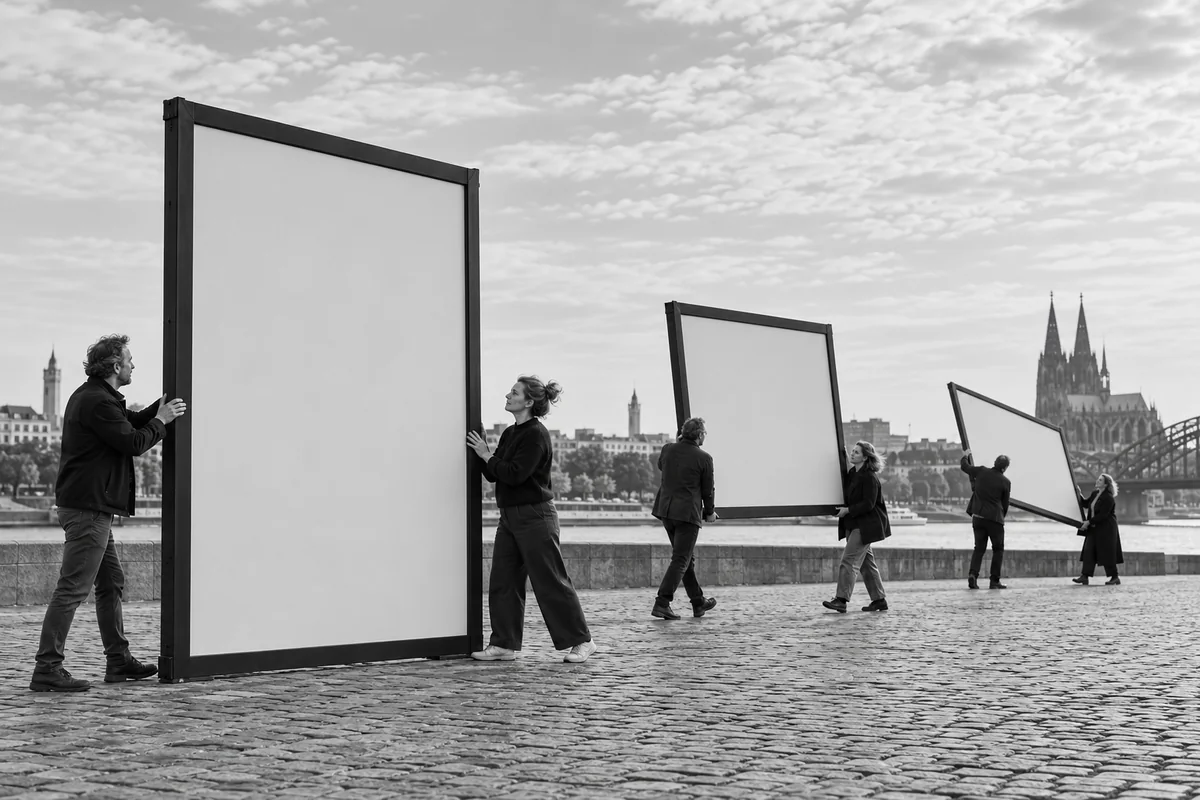
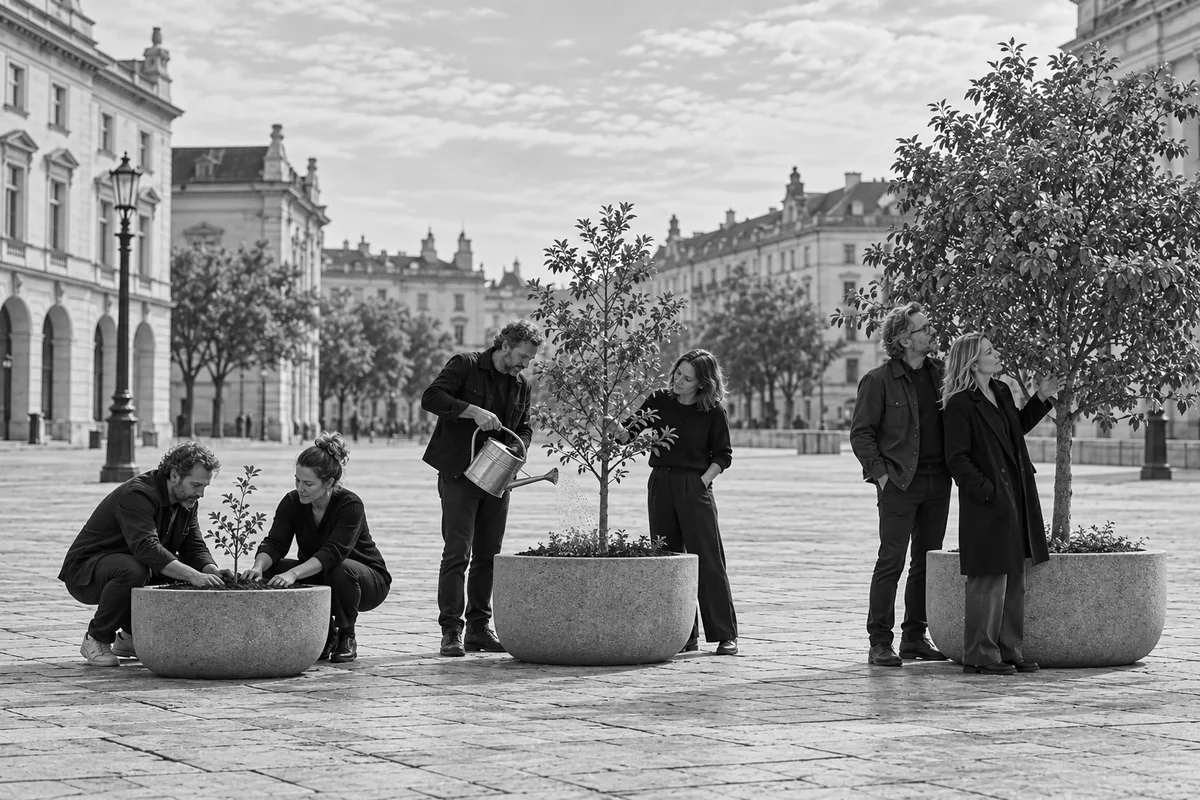
Add three tailored blog previews to homepage campaign and AI pages and replace three frame motifs

diff --git a/index.html b/index.html
@@ -93,13 +93,12 @@
 <div class="section-head"><div><div class="eyebrow">Über Heidewitzka</div><h2>Heidewitzka?</h2></div></div>
 <p class="about-story">Heidewitzka – ein Wort, das schon in unserer Kindheit Emotionen geweckt hat. Es steht für den kurzen Moment des Staunens, wenn etwas anders, überraschender oder besser läuft als erwartet. Genau dieses Gefühl wollen wir in unserer Arbeit weitertragen: mit Performance Marketing, Datenanalyse und sinnvoll eingesetzter KI, die nicht nur messbare Ergebnisse liefert, sondern neue Möglichkeiten eröffnet und im richtigen Moment den entscheidenden Unterschied macht.</p></div></section>
 
-<section class="section"><div class="wrap">
-<div class="section-head"><div><div class="eyebrow">05 · Blog / Insights</div><h2>Was sich im Marketing gerade wirklich verändert.</h2></div><p>Paid Media, AI Operations, Agentic Marketing und neue Werbekanäle.</p></div>
-<div class="grid-4 unified-teaser-grid">
-<article class="ai-teaser"><span class="teaser-media media"><img src="/assets/teaser-portrait.webp" alt="Porträt aus dem Marketingalltag"></span><span class="teaser-body"><h3>Agentic Marketing: Was übernimmt ein Agent wirklich?</h3><p>Vom Monitoring bis zur Vorbereitung konkreter Änderungen.</p><span class="teaser-link">Mehr erfahren <span>↗</span></span></span></article>
-<article class="ai-teaser"><span class="teaser-media media"><img src="/assets/orange-macro.webp" alt="Abstrakte orangefarbene Struktur"></span><span class="teaser-body"><h3>Warum Google Ads nicht am Klick aufhört</h3><p>Die Verbindung von Kampagne, Landingpage, Daten und Follow-up.</p><span class="teaser-link">Mehr erfahren <span>↗</span></span></span></article>
-<article class="ai-teaser"><span class="teaser-media media"><img src="/assets/vase-stilllife.webp" alt="Stillleben als Symbol für neue Werbekanäle"></span><span class="teaser-body"><h3>ChatGPT Ads: Was Unternehmen jetzt vorbereiten können</h3><p>Ein neuer Kanal – und warum Search-Logik relevant bleibt.</p><span class="teaser-link">Mehr erfahren <span>↗</span></span></span></article>
-<article class="ai-teaser"><span class="teaser-media media"><img src="/assets/teaser-vase.webp" alt="Kreatives Objekt im Studio"></span><span class="teaser-body"><h3>Warum gute Daten wichtiger werden</h3><p>Was sauberes Tracking für Automatisierung, KI und Entscheidungen leistet.</p><span class="teaser-link">Mehr erfahren <span>↗</span></span></span></article>
+<section class="section blog-preview" aria-labelledby="blog-preview-heading"><div class="wrap">
+<div class="section-head"><div><div class="eyebrow">Blog / Insights</div><h2 id="blog-preview-heading">Ideen für Ihr Marketing.</h2></div><a class="insight-more" href="/insights">Alle Artikel <span aria-hidden="true">↗</span></a></div>
+<div class="insights-grid blog-preview-grid">
+<article class="insight-card"><a class="insight-media" href="/linkedin-meta" aria-label="Artikel lesen: LinkedIn + Meta: Fachlich überzeugen, außerhalb des Berufsalltags erinnern"><img src="/assets/blog-linkedin-meta.webp" alt="" width="1200" height="800" loading="lazy"></a><h3>LinkedIn + Meta: Fachlich überzeugen, außerhalb des Berufsalltags erinnern</h3><p>Ein Kampagnenkonzept mit zwei klaren Aufgaben – und einer Rechnung, wann der zweite Kanal seinen Aufwand rechtfertigt.</p><a href="/linkedin-meta" class="insight-more">Mehr erfahren <span>↗</span></a></article>
+<article class="insight-card"><a class="insight-media" href="/plattform-attribution" aria-label="Artikel lesen: Ein Abschluss, drei Plattformen: Wie oft verkaufen wir denselben Kunden?"><img src="/assets/blog-plattform-attribution.webp" alt="" width="1200" height="800" loading="lazy"></a><h3>Ein Abschluss, drei Plattformen: Wie oft verkaufen wir denselben Kunden?</h3><p>Warum Meta, LinkedIn und Google denselben Erfolg beanspruchen können – und welche Zahlen im gemeinsamen Bericht addiert werden dürfen.</p><a href="/plattform-attribution" class="insight-more">Mehr erfahren <span>↗</span></a></article>
+<article class="insight-card"><a class="insight-media" href="/lokale-werbung" aria-label="Artikel lesen: Wie weit lohnt sich lokale Werbung? Die letzte Postleitzahl entscheidet"><img src="/assets/blog-lokale-werbung.webp" alt="" width="1200" height="800" loading="lazy"></a><h3>Wie weit lohnt sich lokale Werbung? Die letzte Postleitzahl entscheidet</h3><p>Warum Fahrtzeit und tatsächliche Abschlüsse mehr über ein Werbegebiet sagen als günstige Klicks oder ein größerer Radius.</p><a href="/lokale-werbung" class="insight-more">Mehr erfahren <span>↗</span></a></article>
 </div></div></section>
 </main>
 <footer class="footer"><div class="wrap">

diff --git a/campaign-management.html b/campaign-management.html
@@ -146,6 +146,13 @@
 </div></section>
 
 <div class="product-cta campaign-cta"><div><div class="eyebrow">Kampagnenmanagement</div><h2>Ein Konto, das Aufmerksamkeit braucht?</h2></div><a class="btn" href="/contact.html">Projekt besprechen →</a></div></div></section>
+<section class="section blog-preview" aria-labelledby="blog-preview-heading"><div class="wrap">
+<div class="section-head"><div><div class="eyebrow">Blog / Insights</div><h2 id="blog-preview-heading">Kampagnen weiterdenken.</h2></div><a class="insight-more" href="/insights">Alle Artikel <span aria-hidden="true">↗</span></a></div>
+<div class="insights-grid blog-preview-grid">
+<article class="insight-card"><a class="insight-media" href="/search-video" aria-label="Artikel lesen: Teure Suchbegriffe als Zielgruppensignal: Search trifft YouTube"><img src="/assets/blog-search-video.webp" alt="" width="1200" height="800" loading="lazy"></a><h3>Teure Suchbegriffe als Zielgruppensignal: Search trifft YouTube</h3><p>Wie sich Suchintention für Videowerbung nutzen lässt – und warum günstige Videokontakte noch keine günstigen Kunden sind.</p><a href="/search-video" class="insight-more">Mehr erfahren <span>↗</span></a></article>
+<article class="insight-card"><a class="insight-media" href="/leadqualitaet" aria-label="Artikel lesen: Der 30-Euro-Lead ist teurer als der 90-Euro-Lead"><img src="/assets/blog-leadqualitaet-milchglas.webp" alt="" width="1200" height="800" loading="lazy"></a><h3>Der 30-Euro-Lead ist teurer als der 90-Euro-Lead</h3><p>Warum Abschlussquote und Deckungsbeitrag die Leadbewertung verändern – mit einer Rechnung, die über den CPL hinausgeht.</p><a href="/leadqualitaet" class="insight-more">Mehr erfahren <span>↗</span></a></article>
+<article class="insight-card"><a class="insight-media" href="/meta-google-zeitversetzt" aria-label="Artikel lesen: Meta + Google: Was passiert, wenn man beide Kanäle zeitversetzt einschaltet?"><img src="/assets/blog-meta-google-zeitversetzt.webp" alt="" width="1200" height="800" loading="lazy"></a><h3>Meta + Google: Was passiert, wenn man beide Kanäle zeitversetzt einschaltet?</h3><p>Nachfrage zuerst anstoßen, Suchwerbung danach verstärken: eine überprüfbare Alternative zu dauerhaft parallelen Kampagnen.</p><a href="/meta-google-zeitversetzt" class="insight-more">Mehr erfahren <span>↗</span></a></article>
+</div></div></section>
 </main>
 <footer class="footer"><div class="wrap"><div class="footer-grid"><div><strong>.heidewitzka</strong><p style="color:#aaa;max-width:420px">Performance Marketing + AI Operations im Marketing.</p></div><div><strong>Leistungen</strong><a href="/performance.html">Performance Marketing</a><a href="/campaign-management.html">Kampagnenmanagement</a><a href="/ai.html">KI im Marketing</a><a href="/ai.html#agentic">Agentic Marketing</a></div><div><strong>Kanäle</strong><a href="/channels.html">Search Engines</a><a href="/channels.html">Meta</a><a href="/channels.html">LinkedIn</a><a href="/channels.html">Pinterest</a><a href="/channels.html">YouTube</a></div><div><strong>Mehr</strong><a href="/shop.html">Service-Shop</a><a href="/insights.html">Blog</a><a href="/white-label">White Label</a><a href="/freelancer-team">Freelancer-Team</a><a href="/contact.html">Kontakt</a></div></div></div><div class="wrap footer-login-row"><a class="footer-login" href="/intern">Login <span aria-hidden="true">↗</span></a></div></footer>
 <script>(function(){const nav=document.querySelector('.site-nav'),btn=document.querySelector('.nav-toggle'),menu=document.querySelector('.nav-links');if(!nav||!btn||!menu)return;const close=()=>{nav.classList.remove('menu-open');btn.setAttribute('aria-expanded','false');btn.setAttribute('aria-label','Menü öffnen');document.body.classList.remove('nav-open')};btn.addEventListener('click',()=>{const open=!nav.classList.contains('menu-open');nav.classList.toggle('menu-open',open);btn.setAttribute('aria-expanded',String(open));btn.setAttribute('aria-label',open?'Menü schließen':'Menü öffnen');document.body.classList.toggle('nav-open',open)});menu.querySelectorAll('a').forEach(a=>a.addEventListener('click',close));document.addEventListener('keydown',e=>{if(e.key==='Escape')close()});window.addEventListener('resize',()=>{if(window.innerWidth>900)close()})})();</script>

diff --git a/ai.html b/ai.html
@@ -96,6 +96,13 @@
 <article class="campaign-faq-item"><h3>Müssen wir auch das Kampagnenmanagement bei euch buchen?</h3><div><p>Nein. Wir können einen Workflow für Ihr internes Team oder Ihre Agentur einrichten und dokumentieren. Alternativ übernehmen wir Betreuung und Weiterentwicklung oder integrieren das System in unser Kampagnenmanagement. Zuständigkeiten, Übergaben und Freigaben stimmen wir auf die gewählte Zusammenarbeit ab.</p></div></article>
 <article class="campaign-faq-item"><h3>Wie behalten wir laufende Kosten und Aktivitäten im Blick?</h3><div><p>Wir vereinbaren den Ausführungsrhythmus, die verwendeten Dienste und den erwarteten Nutzungsumfang. Je nach Workflow können zusätzliche Kosten für Modelle, Automatisierungsplattformen oder Datenquellen entstehen. Aktivitätsübersichten, Kostenkontrollen und eine Pausenmöglichkeit planen wir passend zum System ein. Einrichtung, Betreuung und externe Plattformkosten weisen wir im Angebot getrennt aus.</p></div></article>
 </div></div></section>
+<section class="section blog-preview" aria-labelledby="blog-preview-heading"><div class="wrap">
+<div class="section-head"><div><div class="eyebrow">Blog / Insights</div><h2 id="blog-preview-heading">KI fundiert einsetzen.</h2></div><a class="insight-more" href="/insights">Alle Artikel <span aria-hidden="true">↗</span></a></div>
+<div class="insights-grid blog-preview-grid">
+<article class="insight-card"><a class="insight-media" href="/ki-motive-testen" aria-label="Artikel lesen: 20 KI-Motive testen – und einen Zufallssieger finden"><img src="/assets/blog-ki-motive-testen.webp" alt="" width="1200" height="800" loading="lazy"></a><h3>20 KI-Motive testen – und einen Zufallssieger finden</h3><p>Warum mehr Varianten nicht automatisch mehr Wissen erzeugen: Mehrfachtests, Fallzahlen und ein besserer Ablauf für Creative-Experimente.</p><a href="/ki-motive-testen" class="insight-more">Mehr erfahren <span>↗</span></a></article>
+<article class="insight-card"><a class="insight-media" href="/meta-creative-auslieferung" aria-label="Artikel lesen: Meta: Gewinnt die Anzeige – oder bekommt sie nur die besseren Nutzer?"><img src="/assets/blog-meta-creative-auslieferung.webp" alt="" width="1200" height="800" loading="lazy"></a><h3>Meta: Gewinnt die Anzeige – oder bekommt sie nur die besseren Nutzer?</h3><p>Wie ungleiche Auslieferung Creative-Vergleiche verzerrt und welche Frage ein Experiment tatsächlich beantworten kann.</p><a href="/meta-creative-auslieferung" class="insight-more">Mehr erfahren <span>↗</span></a></article>
+<article class="insight-card"><a class="insight-media" href="/tag-manager-engagement" aria-label="Artikel lesen: Tag Manager: 50 Prozent gescrollt – aber hat jemand wirklich etwas verstanden?"><img src="/assets/blog-tag-manager-engagement.webp" alt="" width="1200" height="800" loading="lazy"></a><h3>Tag Manager: 50 Prozent gescrollt – aber hat jemand wirklich etwas verstanden?</h3><p>Ein genaueres Messkonzept für Angebotsinteresse: relevante Inhalte sichtbar, aktive Zeit und eine konkrete nächste Handlung.</p><a href="/tag-manager-engagement" class="insight-more">Mehr erfahren <span>↗</span></a></article>
+</div></div></section>
 </main><footer class="footer"><div class="wrap">
 <div class="footer-grid">
 <div><strong>.heidewitzka</strong><p style="color:#aaa;max-width:420px">Performance Marketing + AI Operations im Marketing.</p></div>

diff --git a/meta-creative-auslieferung.html b/meta-creative-auslieferung.html
@@ -7,7 +7,7 @@
 <div class="nav-wrap"><div class="wrap"><nav class="site-nav"><a class="logo" href="/">heidewitzka</a><button class="nav-toggle" type="button" aria-expanded="false" aria-controls="site-menu" aria-label="Menü öffnen"><span></span><span></span><span></span></button><div class="nav-links" id="site-menu"><a href="/campaign-management.html">Kampagnenmanagement</a><a href="/ai.html">KI im Marketing</a><a href="/shop.html">Direkt-Buchung</a><a href="/insights.html">Blog</a><a class="nav-consultation" href="https://calendly.com/vogt-heidewitzka/30min" target="_blank" rel="noopener noreferrer">20-Minuten-Gespräch buchen</a></div></nav></div></div>
 <main><article class="blog-article">
 <header class="blog-header"><div class="wrap blog-narrow"><a class="blog-back" href="/insights">← Alle Insights</a><div class="eyebrow">Performance Marketing · Analyse &amp; Experimente</div><h1>Meta: Gewinnt die Anzeige – oder bekommt sie nur die besseren Nutzer?</h1><p class="blog-deck">Wie ungleiche Auslieferung Creative-Vergleiche verzerrt und welche Frage ein Experiment tatsächlich beantworten kann.</p><div class="blog-meta">Heidewitzka · 30. September 2026 · ca. 3 Min. Lesezeit</div></div></header>
-<figure class="wrap blog-narrow blog-cover"><img src="/assets/blog-meta-creative-auslieferung.webp" width="1200" height="800" alt="Eine Gruppe richtet drei große leere Bildtafeln auf einem Platz aus." fetchpriority="high" decoding="async"></figure>
+<figure class="wrap blog-narrow blog-cover"><img src="/assets/blog-meta-creative-auslieferung.webp" width="1200" height="800" alt="Eine Gruppe vergleicht den unterschiedlich großen Schutz zweier Schirme auf einem Platz." fetchpriority="high" decoding="async"></figure>
 <section class="blog-body"><div class="wrap blog-narrow"><p class="blog-intro">Anzeige A erzeugt doppelt so viele Käufe wie Anzeige B. Das klingt nach einem klaren Creative-Sieger. Doch vielleicht hat A vor allem Menschen erreicht, die ohnehin näher am Kauf waren. Ein Anzeigenvergleich misst immer auch die Bedingungen, unter denen eine Gestaltung ausgeliefert wurde.</p>
 <p>Für die laufende Kampagne ist diese Kombination relevant: Unternehmen kaufen keine isolierten Bilder, sondern Ergebnisse aus Motiv, Zielgruppe, Auktion und Optimierung. Problematisch wird es, wenn aus einem erfolgreichen Zusammenspiel eine allgemeine Gestaltungsregel entsteht. „Dieses Motiv funktioniert besser“ ist eine stärkere Aussage als „Diese Variante lief in diesem Test besser“.</p>
 <h2>Zwei Gruppen können denselben Sieger unterschiedlich aussehen lassen</h2>

diff --git a/tag-manager-engagement.html b/tag-manager-engagement.html
@@ -7,7 +7,7 @@
 <div class="nav-wrap"><div class="wrap"><nav class="site-nav"><a class="logo" href="/">heidewitzka</a><button class="nav-toggle" type="button" aria-expanded="false" aria-controls="site-menu" aria-label="Menü öffnen"><span></span><span></span><span></span></button><div class="nav-links" id="site-menu"><a href="/campaign-management.html">Kampagnenmanagement</a><a href="/ai.html">KI im Marketing</a><a href="/shop.html">Direkt-Buchung</a><a href="/insights.html">Blog</a><a class="nav-consultation" href="https://calendly.com/vogt-heidewitzka/30min" target="_blank" rel="noopener noreferrer">20-Minuten-Gespräch buchen</a></div></nav></div></div>
 <main><article class="blog-article">
 <header class="blog-header"><div class="wrap blog-narrow"><a class="blog-back" href="/insights">← Alle Insights</a><div class="eyebrow">Performance Marketing · Analyse &amp; Experimente</div><h1>Tag Manager: 50 Prozent gescrollt – aber hat jemand wirklich etwas verstanden?</h1><p class="blog-deck">Ein genaueres Messkonzept für Angebotsinteresse: relevante Inhalte sichtbar, aktive Zeit und eine konkrete nächste Handlung.</p><div class="blog-meta">Heidewitzka · 30. September 2026 · ca. 3 Min. Lesezeit</div></div></header>
-<figure class="wrap blog-narrow blog-cover"><img src="/assets/blog-tag-manager-engagement.webp" width="1200" height="800" alt="Eine Gruppe erkundet gemeinsam einen freistehenden Türrahmen in einem Innenhof." fetchpriority="high" decoding="async"></figure>
+<figure class="wrap blog-narrow blog-cover"><img src="/assets/blog-tag-manager-engagement.webp" width="1200" height="800" alt="Eine Gruppe betrachtet eine große Steinkugel unterschiedlich aufmerksam; einige gehen vorbei." fetchpriority="high" decoding="async"></figure>
 <section class="blog-body"><div class="wrap blog-narrow"><p class="blog-intro">Eine Person scrollt bis zur Seitenmitte. Hat sie das Angebot gelesen? Vielleicht. Vielleicht besteht die erste Hälfte aber nur aus einem großen Bild. Oder die Seite ist so kurz, dass die 50-Prozent-Marke bereits beim Laden sichtbar ist. Scrolltiefe misst eine Position, kein Verständnis.</p>
 <p>Google dokumentiert ausdrücklich, dass ein Scroll-Trigger auslösen kann, wenn der festgelegte Abschnitt bereits im sichtbaren Bereich liegt, obwohl niemand tatsächlich gescrollt hat [1]. Ein Ziel wie „30 Sekunden und 50 Prozent“ kann trotzdem nützlich sein. Es braucht nur eine klare Bedeutung und eine Prüfung gegen spätere Geschäftsergebnisse.</p>
 <h2>Die gleiche Schwelle bedeutet unterschiedliche Inhalte</h2>

diff --git a/ga4-kohorten.html b/ga4-kohorten.html
@@ -7,7 +7,7 @@
 <div class="nav-wrap"><div class="wrap"><nav class="site-nav"><a class="logo" href="/">heidewitzka</a><button class="nav-toggle" type="button" aria-expanded="false" aria-controls="site-menu" aria-label="Menü öffnen"><span></span><span></span><span></span></button><div class="nav-links" id="site-menu"><a href="/campaign-management.html">Kampagnenmanagement</a><a href="/ai.html">KI im Marketing</a><a href="/shop.html">Direkt-Buchung</a><a href="/insights.html">Blog</a><a class="nav-consultation" href="https://calendly.com/vogt-heidewitzka/30min" target="_blank" rel="noopener noreferrer">20-Minuten-Gespräch buchen</a></div></nav></div></div>
 <main><article class="blog-article">
 <header class="blog-header"><div class="wrap blog-narrow"><a class="blog-back" href="/insights">← Alle Insights</a><div class="eyebrow">Performance Marketing · Analyse &amp; Experimente</div><h1>GA4: Der September sieht schlecht aus – weil die Kunden erst im Oktober kaufen</h1><p class="blog-deck">Wie unterschiedliche Beobachtungszeiten Kampagnenvergleiche verzerren und warum ausgereifte Kohorten zu anderen Budgetentscheidungen führen.</p><div class="blog-meta">Heidewitzka · 30. September 2026 · ca. 3 Min. Lesezeit</div></div></header>
-<figure class="wrap blog-narrow blog-cover"><img src="/assets/blog-ga4-kohorten.webp" width="1200" height="800" alt="Mehrere Gruppen stellen leere Bilderrahmen in zeitlich versetzten Schritten auf." fetchpriority="high" decoding="async"></figure>
+<figure class="wrap blog-narrow blog-cover"><img src="/assets/blog-ga4-kohorten.webp" width="1200" height="800" alt="Drei Paare kümmern sich um Bäume in unterschiedlichen Wachstumsstadien." fetchpriority="high" decoding="async"></figure>
 <section class="blog-body"><div class="wrap blog-narrow"><p class="blog-intro">Am Monatsende hat eine Kampagne 20 Abschlüsse, die andere nur acht. Die erste scheint besser. Allerdings wurden ihre Kontakte vor sechs Wochen gewonnen; die Kontakte der zweiten kamen überwiegend erst vor einigen Tagen. Der Bericht vergleicht nicht nur Kampagnen, sondern auch unterschiedlich lange Chancen auf einen Abschluss.</p>
 <p>Dieses Problem tritt bei B2B-Anfragen, größeren Anschaffungen und Angeboten mit Beratung besonders leicht auf. Frische Kontakte sind rechtszensiert: Ein späterer Abschluss ist noch nicht beobachtbar. Er darf weder als bereits gewonnen noch als endgültig verloren gelten. Der Vergleich braucht einen festen Startpunkt und dieselbe Reifezeit.</p>
 <h2>Zwei Kampagnen nach 7 und nach 30 Tagen</h2>

diff --git a/styles.css b/styles.css
@@ -702,3 +702,10 @@ input,textarea{width:100%;padding:15px 16px;border:1px solid #cfcfc9;border-radi
 .nav-links .nav-consultation:focus-visible{outline:3px solid #063e30;outline-offset:4px}
 @media(min-width:901px) and (max-width:1150px){.site-nav{gap:22px}.site-nav .nav-links{gap:18px}.nav-links a{font-size:14px}.nav-links .nav-consultation{font-size:14px;padding:14px 16px}}
 @media(max-width:900px){.site-nav .nav-links{gap:0}.nav-links .nav-consultation{margin-top:16px;min-height:58px;padding:16px;font-size:18px;white-space:normal;text-align:center}}
+
+/* Article previews at the end of the main pages */
+.blog-preview .insight-media{height:auto;aspect-ratio:3/2}
+.blog-preview .insight-card h3{font-size:clamp(25px,2.15vw,34px)}
+.blog-preview .section-head>.insight-more{align-self:flex-end;white-space:nowrap}
+@media(min-width:851px){.blog-preview-grid{grid-template-columns:repeat(3,minmax(0,1fr))}}
+@media(max-width:850px){.blog-preview-grid{grid-template-columns:1fr;gap:44px}.blog-preview .section-head>.insight-more{align-self:flex-start}.blog-preview .insight-card p{max-width:42ch}}
